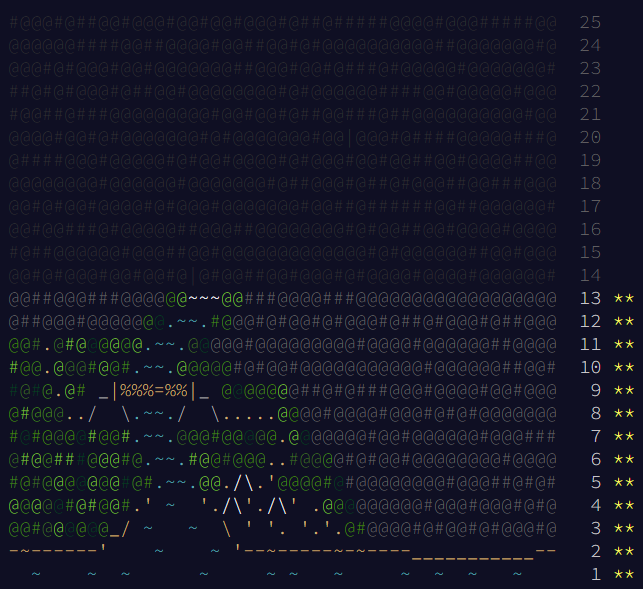
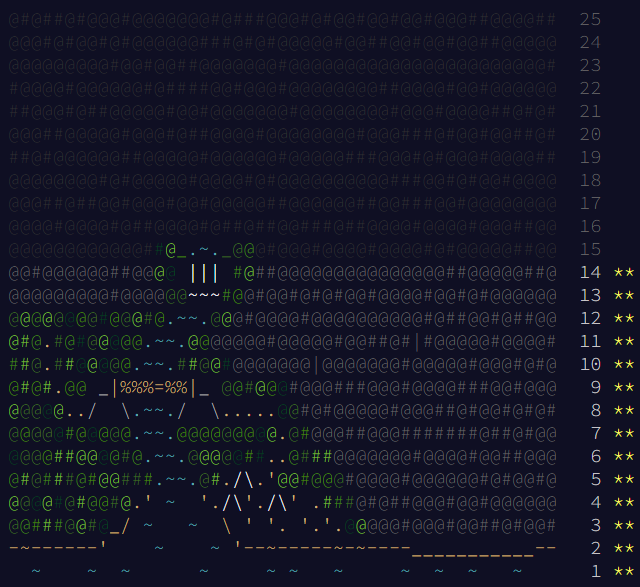
included day 14 solutions

Changed region(s): [[0.0, 0.3986, 0.875, 0.9506], [0.9062, 0.0, 1.0, 0.9813]]

diff --git a/day_14_-_regolith_reservoir/part_2.py b/day_14_-_regolith_reservoir/part_2.py
@@ -1,0 +1,71 @@
+#!/usr/bin/env python3
+
+import os
+from typing import Generator
+
+
+def create_cave_system(cave_paths: list[list[complex]]) -> set[complex]:
+	cave_system_with_rocks = set()
+
+	for cave_path in cave_paths:
+		for position in range(len(cave_path) - 1):
+			if cave_path[position].real == cave_path[position + 1].real:
+				min_depth = int(min(cave_path[position].imag, cave_path[position + 1].imag))
+				max_depth = int(max(cave_path[position].imag, cave_path[position + 1].imag))
+				for vertical_position in range(min_depth, max_depth + 1):
+					cave_system_with_rocks.add(cave_path[position].real + vertical_position * 1j)
+			else:
+				max_left = int(min(cave_path[position].real, cave_path[position + 1].real))
+				max_right = int(max(cave_path[position].real, cave_path[position + 1].real))
+				for horizontal_position in range(max_left, max_right + 1):
+					cave_system_with_rocks.add(horizontal_position + cave_path[position].imag * 1j)
+
+	return cave_system_with_rocks
+
+
+def cave_system_max_depth(cave_paths: list[list[complex]]) -> int:
+	max_depth = 0
+
+	for cave_path in cave_paths:
+		for cave_position in cave_path:
+			max_depth = max(max_depth, int(cave_position.imag))
+
+	return max_depth
+
+
+def quicksand(cave_system: set[complex], sand_position: complex = 500 + 0j) -> Generator[complex, None, None]:
+	cave_system.add(sand_position)
+
+	down, left, right = 1j, -1, 1
+	if (new_sand_position := sand_position + down) not in cave_system:
+		yield from quicksand(cave_system, new_sand_position)
+	if (new_sand_position := sand_position + left + down) not in cave_system:
+		yield from quicksand(cave_system, new_sand_position)
+	if (new_sand_position := sand_position + right + down) not in cave_system:
+		yield from quicksand(cave_system, new_sand_position)
+
+	yield sand_position
+
+
+def solution(elements: list[list[complex]]) -> int:
+	cave_system, cave_max_depth = create_cave_system(elements), cave_system_max_depth(elements)
+	offset = 4
+
+	for horizontal_position in range(500 - cave_max_depth - offset, 500 + cave_max_depth + offset):
+		cave_system.add(horizontal_position + (cave_max_depth + offset // 2) * 1j)
+
+	return len(list(quicksand(cave_system)))
+
+
+def main():
+	aoc_day_loc = os.path.dirname(__file__)
+
+	with open(os.path.join(aoc_day_loc, 'inputs.txt'), 'r') as file:
+		inputs = [[complex(*[int(e) for e in elem.split(',')]) for elem in line.split(' -> ')] for line in file.readlines()]
+
+	print('Day 14 : Regolith Reservoir - part 2')
+	print(f'>>> Answer : {solution(inputs)}')
+
+
+if __name__ == '__main__':
+	main()

diff --git a/day_14_-_regolith_reservoir/part_1.py b/day_14_-_regolith_reservoir/part_1.py
@@ -1,0 +1,75 @@
+#!/usr/bin/env python3
+
+import os
+
+
+def create_cave_system(cave_paths: list[list[complex]]) -> set[complex]:
+	cave_system_with_rocks = set()
+
+	for cave_path in cave_paths:
+		for position in range(len(cave_path) - 1):
+			if cave_path[position].real == cave_path[position + 1].real:
+				min_depth = int(min(cave_path[position].imag, cave_path[position + 1].imag))
+				max_depth = int(max(cave_path[position].imag, cave_path[position + 1].imag))
+				for vertical_position in range(min_depth, max_depth + 1):
+					cave_system_with_rocks.add(cave_path[position].real + vertical_position * 1j)
+			else:
+				max_left = int(min(cave_path[position].real, cave_path[position + 1].real))
+				max_right = int(max(cave_path[position].real, cave_path[position + 1].real))
+				for horizontal_position in range(max_left, max_right + 1):
+					cave_system_with_rocks.add(horizontal_position + cave_path[position].imag * 1j)
+
+	return cave_system_with_rocks
+
+
+def cave_system_max_depth(cave_paths: list[list[complex]]) -> int:
+	max_depth = 0
+
+	for cave_path in cave_paths:
+		for cave_position in cave_path:
+			max_depth = max(max_depth, int(cave_position.imag))
+
+	return max_depth
+
+
+def sand_resting_inside_cave_system(cave_system: set[complex], cave_max_depth: int) -> bool:
+	sand_position = 500
+	abyss_position = 500 + 0j
+	down, left, right = 1j, -1 + 1j, 1 + 1j
+
+	while sand_position.imag < cave_max_depth and abyss_position not in cave_system:
+		if sand_position + down not in cave_system:
+			sand_position += down
+		elif sand_position + left not in cave_system:
+			sand_position += left
+		elif sand_position + right not in cave_system:
+			sand_position += right
+		else:
+			cave_system.add(sand_position)
+			return True
+
+	return False
+
+
+def solution(elements: list[list[complex]]) -> int:
+	cave_system, cave_max_depth = create_cave_system(elements), cave_system_max_depth(elements)
+
+	sand_rested_unit = 0
+	while sand_resting_inside_cave_system(cave_system, cave_max_depth):
+		sand_rested_unit += 1
+
+	return sand_rested_unit
+
+
+def main():
+	aoc_day_loc = os.path.dirname(__file__)
+
+	with open(os.path.join(aoc_day_loc, 'inputs.txt'), 'r') as file:
+		inputs = [[complex(*[int(e) for e in elem.split(',')]) for elem in line.split(' -> ')] for line in file.readlines()]
+
+	print('Day 14 : Regolith Reservoir - part 1')
+	print(f'>>> Answer : {solution(inputs)}')
+
+
+if __name__ == '__main__':
+	main()

diff --git a/README.md b/README.md
@@ -21,7 +21,7 @@ Completed the challenges primarily in Python.
 |     **11**     |  [**_Monkey in the Middle_**](https://adventofcode.com/2022/day/11)   |  [Click here](./day_11_-_monkey_in_the_middle/part_1.py)   |  [Click here](./day_11_-_monkey_in_the_middle/part_2.py)   |
 |     **12**     | [**_Hill Climbing Algorithm_**](https://adventofcode.com/2022/day/12) | [Click here](./day_12_-_hill_climbing_algorithm/part_1.py) | [Click here](./day_12_-_hill_climbing_algorithm/part_2.py) |
 |     **13**     |     [**_Distress Signal_**](https://adventofcode.com/2022/day/13)     |     [Click here](./day_13_-_distress_signal/part_1.py)     |     [Click here](./day_13_-_distress_signal/part_2.py)     |
-|     **14**     |         [**_(none)_**](https://adventofcode.com/2022/day/14)          |                        [Click here]                        |                        [Click here]                        |
+|     **14**     |   [**_Regolith Reservoir_**](https://adventofcode.com/2022/day/14)    |   [Click here](./day_14_-_regolith_reservoir/part_1.py)    |   [Click here](./day_14_-_regolith_reservoir/part_2.py)    |
 |     **15**     |         [**_(none)_**](https://adventofcode.com/2022/day/15)          |                        [Click here]                        |                        [Click here]                        |
 |     **16**     |         [**_(none)_**](https://adventofcode.com/2022/day/16)          |                        [Click here]                        |                        [Click here]                        |
 |     **17**     |         [**_(none)_**](https://adventofcode.com/2022/day/17)          |                        [Click here]                        |                        [Click here]                        |
